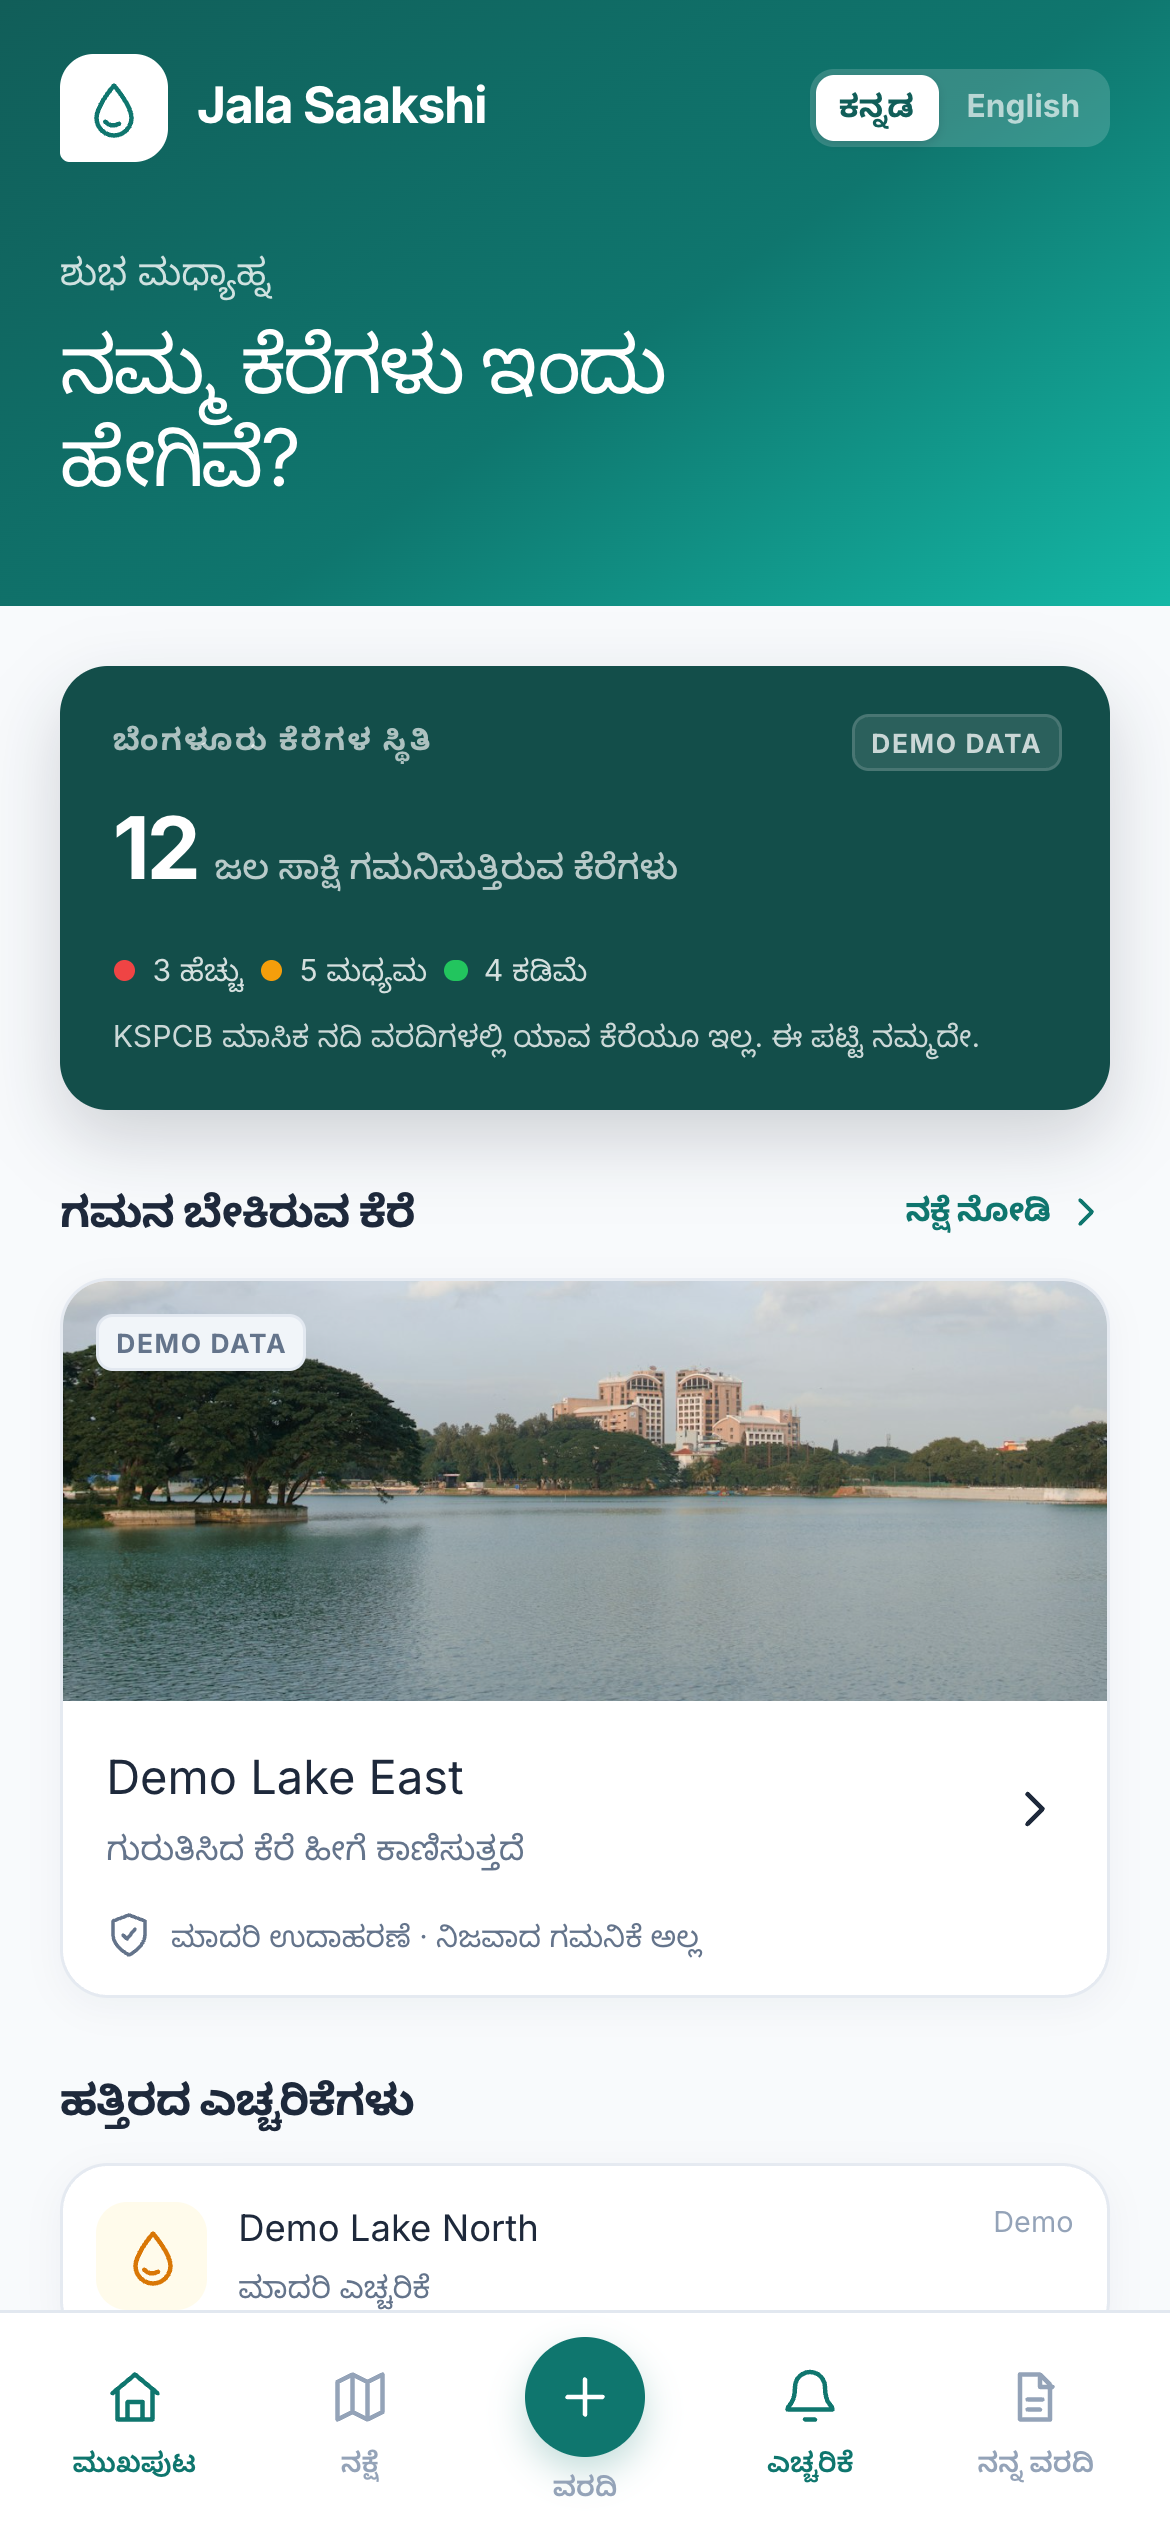
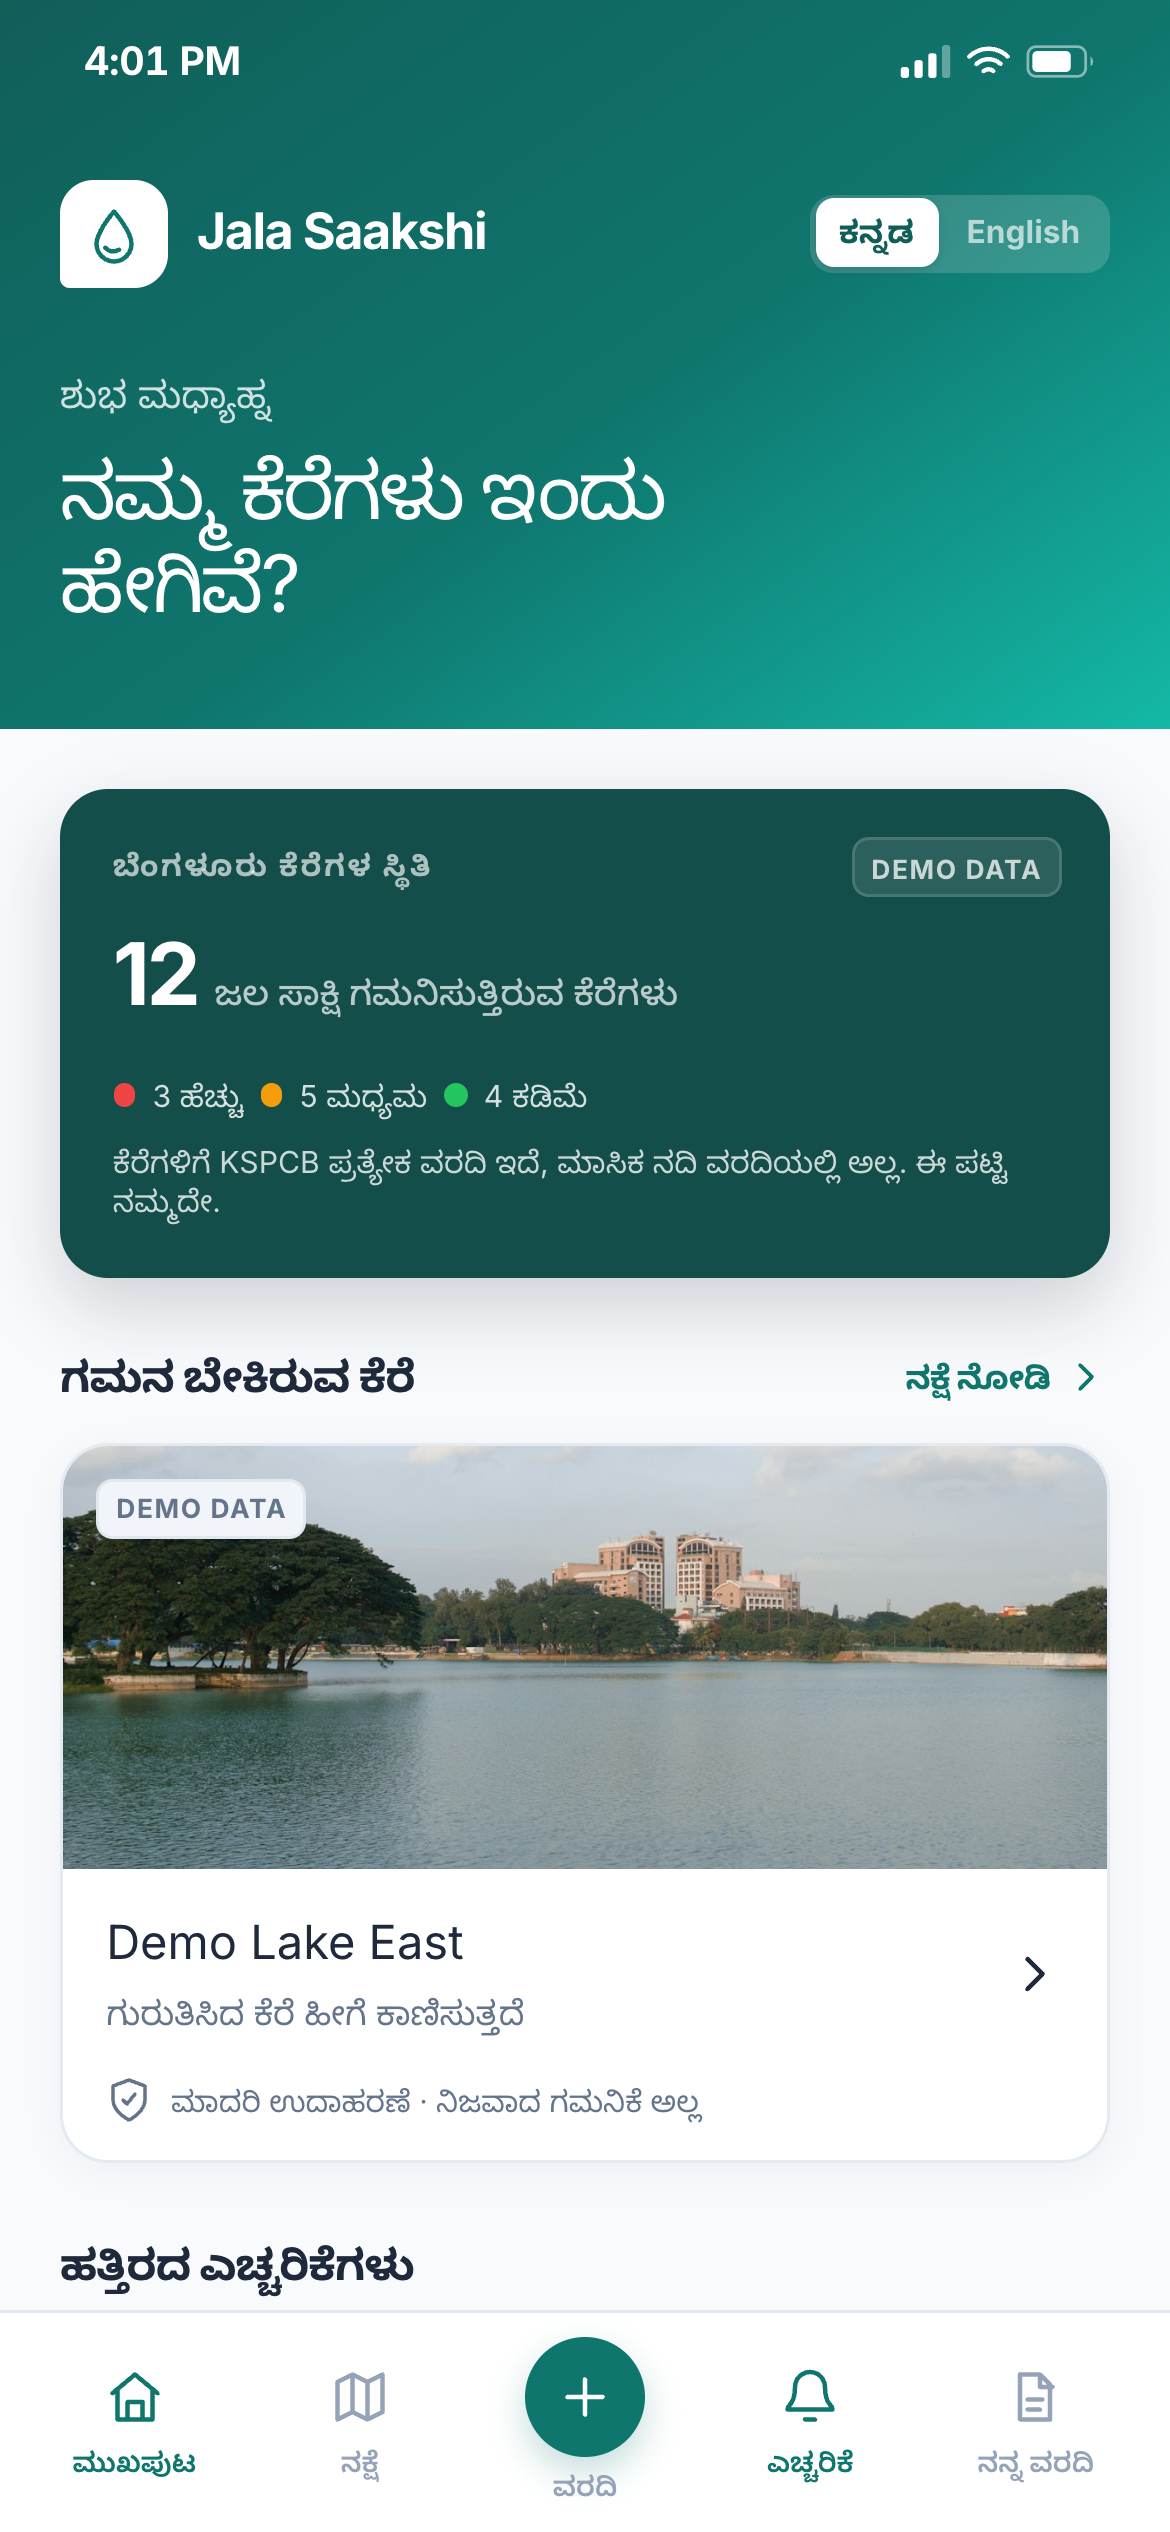
Add phone status bar to the citizen app

diff --git a/src/figma/FigmaApp.tsx b/src/figma/FigmaApp.tsx
@@ -168,8 +168,48 @@ function BottomNav({ active, navigate }: { active: Screen; navigate: (screen: Sc
   )}</nav>;
 }
 
-function MobileFrame({ children, active, navigate }: { children: ReactNode; active?: Screen; navigate: (screen: Screen) => void }) {
-  return <main className="app-stage"><div className="phone-shell"><div className="phone-content">{children}</div>{active && <BottomNav active={active} navigate={navigate} />}</div></main>;
+/**
+ * The phone's own status bar: live clock, signal, wi-fi, battery.
+ *
+ * It sits over the top of the screen the way a real one does, so a coloured header
+ * runs underneath it. `tone` picks white or dark glyphs depending on what is behind.
+ */
+function StatusBar({ tone = "dark" }: { tone?: "dark" | "light" }) {
+  const [now, setNow] = useState(() => new Date());
+  useEffect(() => {
+    // Tick on the minute rather than every second; nothing here shows seconds.
+    const id = window.setInterval(() => setNow(new Date()), 30_000);
+    return () => window.clearInterval(id);
+  }, []);
+
+  const time = now.toLocaleTimeString([], { hour: "numeric", minute: "2-digit" });
+  return (
+    <div className={`status-bar status-bar-${tone}`} aria-hidden>
+      <span className="status-time">{time}</span>
+      <span className="status-icons">
+        <svg viewBox="0 0 18 12" width="17" height="11" fill="currentColor">
+          <rect x="0" y="8" width="3" height="4" rx="1" />
+          <rect x="5" y="5.5" width="3" height="6.5" rx="1" />
+          <rect x="10" y="3" width="3" height="9" rx="1" />
+          <rect x="15" y="0" width="3" height="12" rx="1" opacity="0.35" />
+        </svg>
+        <svg viewBox="0 0 16 12" width="15" height="11" fill="none" stroke="currentColor" strokeWidth="1.6" strokeLinecap="round">
+          <path d="M1 4.2a10 10 0 0 1 14 0" />
+          <path d="M3.6 6.9a6.4 6.4 0 0 1 8.8 0" />
+          <path d="M6.2 9.5a2.7 2.7 0 0 1 3.6 0" />
+        </svg>
+        <svg viewBox="0 0 26 12" width="24" height="11" fill="none">
+          <rect x="0.6" y="0.6" width="21" height="10.8" rx="3" stroke="currentColor" strokeOpacity="0.5" />
+          <rect x="2.2" y="2.2" width="14" height="7.6" rx="1.8" fill="currentColor" />
+          <path d="M23.4 4.2v3.6a2.2 2.2 0 0 0 0-3.6z" fill="currentColor" fillOpacity="0.5" />
+        </svg>
+      </span>
+    </div>
+  );
+}
+
+function MobileFrame({ children, active, navigate, statusTone }: { children: ReactNode; active?: Screen; navigate: (screen: Screen) => void; statusTone?: "dark" | "light" }) {
+  return <main className="app-stage"><div className="phone-shell"><StatusBar tone={statusTone} /><div className="phone-content">{children}</div>{active && <BottomNav active={active} navigate={navigate} />}</div></main>;
 }
 
 function SectionTitle({ children, action }: { children: ReactNode; action?: ReactNode }) {
@@ -178,7 +218,7 @@ function SectionTitle({ children, action }: { children: ReactNode; action?: Reac
 
 function HomeScreen({ navigate }: { navigate: (screen: Screen) => void }) {
   const { t } = useLanguage();
-  return <MobileFrame active="home" navigate={navigate}>
+  return <MobileFrame active="home" navigate={navigate} statusTone="light">
     <div className="home-top">
       <MobileHeader action={<LangToggle />} />
       <div className="greeting"><p>{new Date().getHours() < 12 ? t("greetingMorning") : new Date().getHours() < 17 ? t("greetingAfternoon") : t("greetingEvening")}</p><h1>{t("homeTitle")}</h1></div>

diff --git a/src/figma/figma.css b/src/figma/figma.css
@@ -344,3 +344,20 @@ textarea, select { width: 100%; padding: .75rem; resize: vertical; color: var(--
 .home-top .lang-toggle button.selected { color: var(--color-brand-dark); }
 .map-header .lang-toggle { background: #fff; box-shadow: 0 6px 20px rgba(15,23,42,.12); }
 .header-action { min-width: auto; }
+
+/* ── Phone status bar ────────────────────────────────────────────────────────
+   Overlaid, so a coloured screen header runs underneath it like a real phone. */
+.status-bar {
+  position: absolute; top: 0; left: 0; right: 0; z-index: 30;
+  height: 2.6rem; padding: 0 1.5rem 0 1.75rem;
+  display: flex; align-items: center; justify-content: space-between;
+  pointer-events: none; font-size: .82rem; font-weight: 650;
+  letter-spacing: -.01em; font-variant-numeric: tabular-nums;
+}
+.status-bar-dark { color: var(--color-ink); }
+.status-bar-light { color: #fff; }
+.status-icons { display: flex; align-items: center; gap: .3rem; }
+
+/* Room for the bar, so screen content is not hidden behind it. */
+.phone-content { padding-top: 2.6rem; }
+.home-top, .map-screen { margin-top: -2.6rem; padding-top: 2.6rem; }
